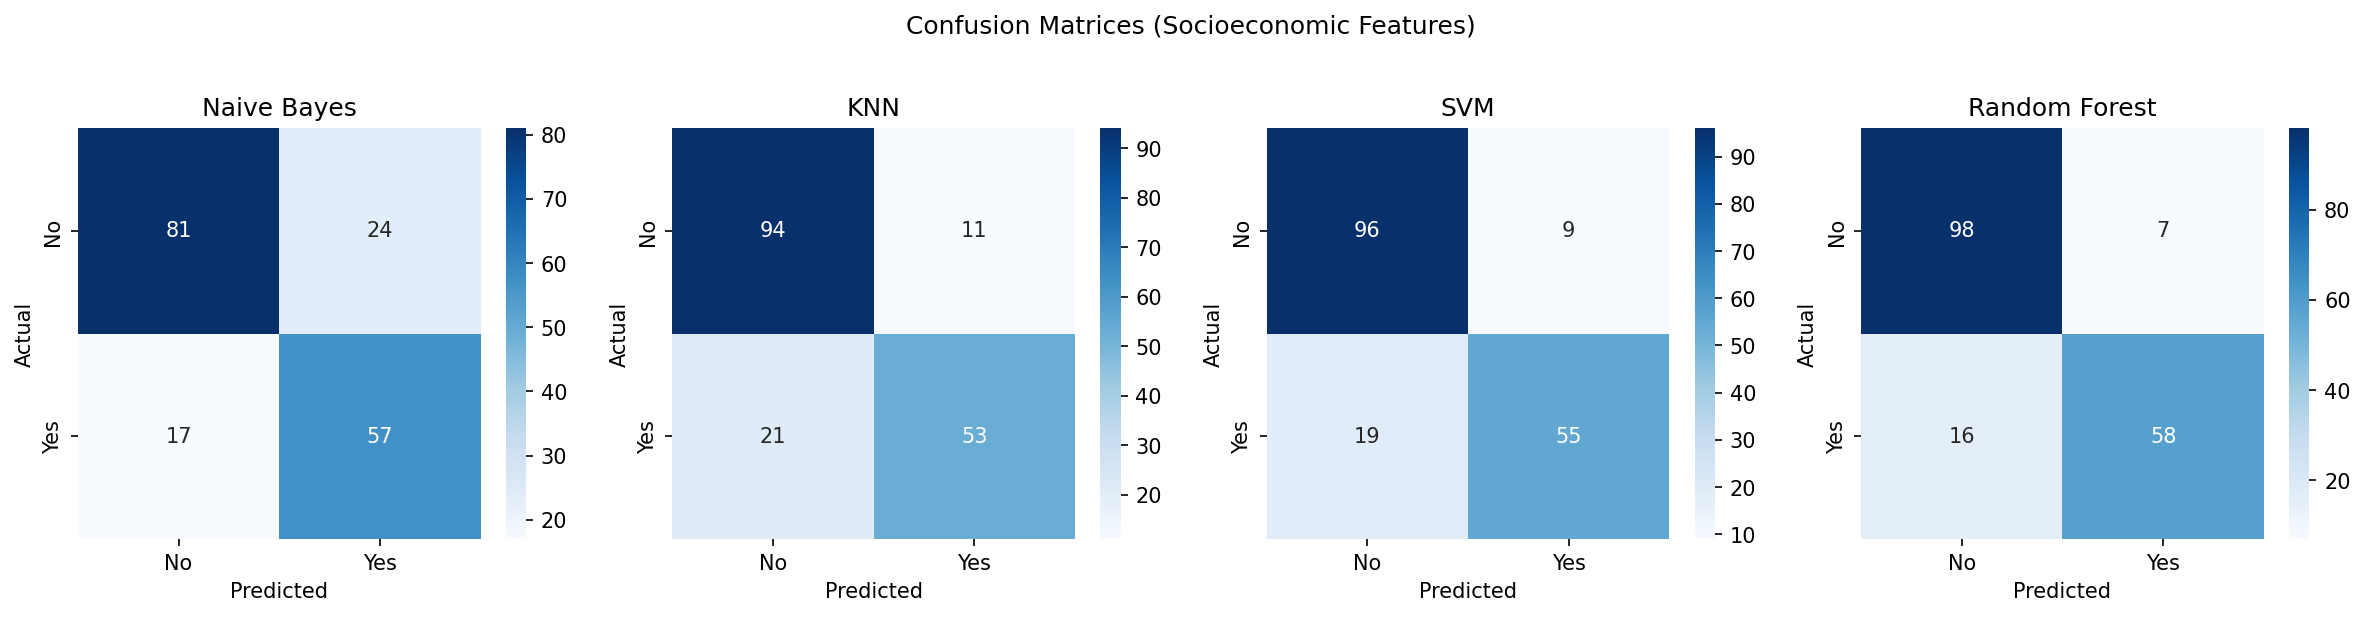
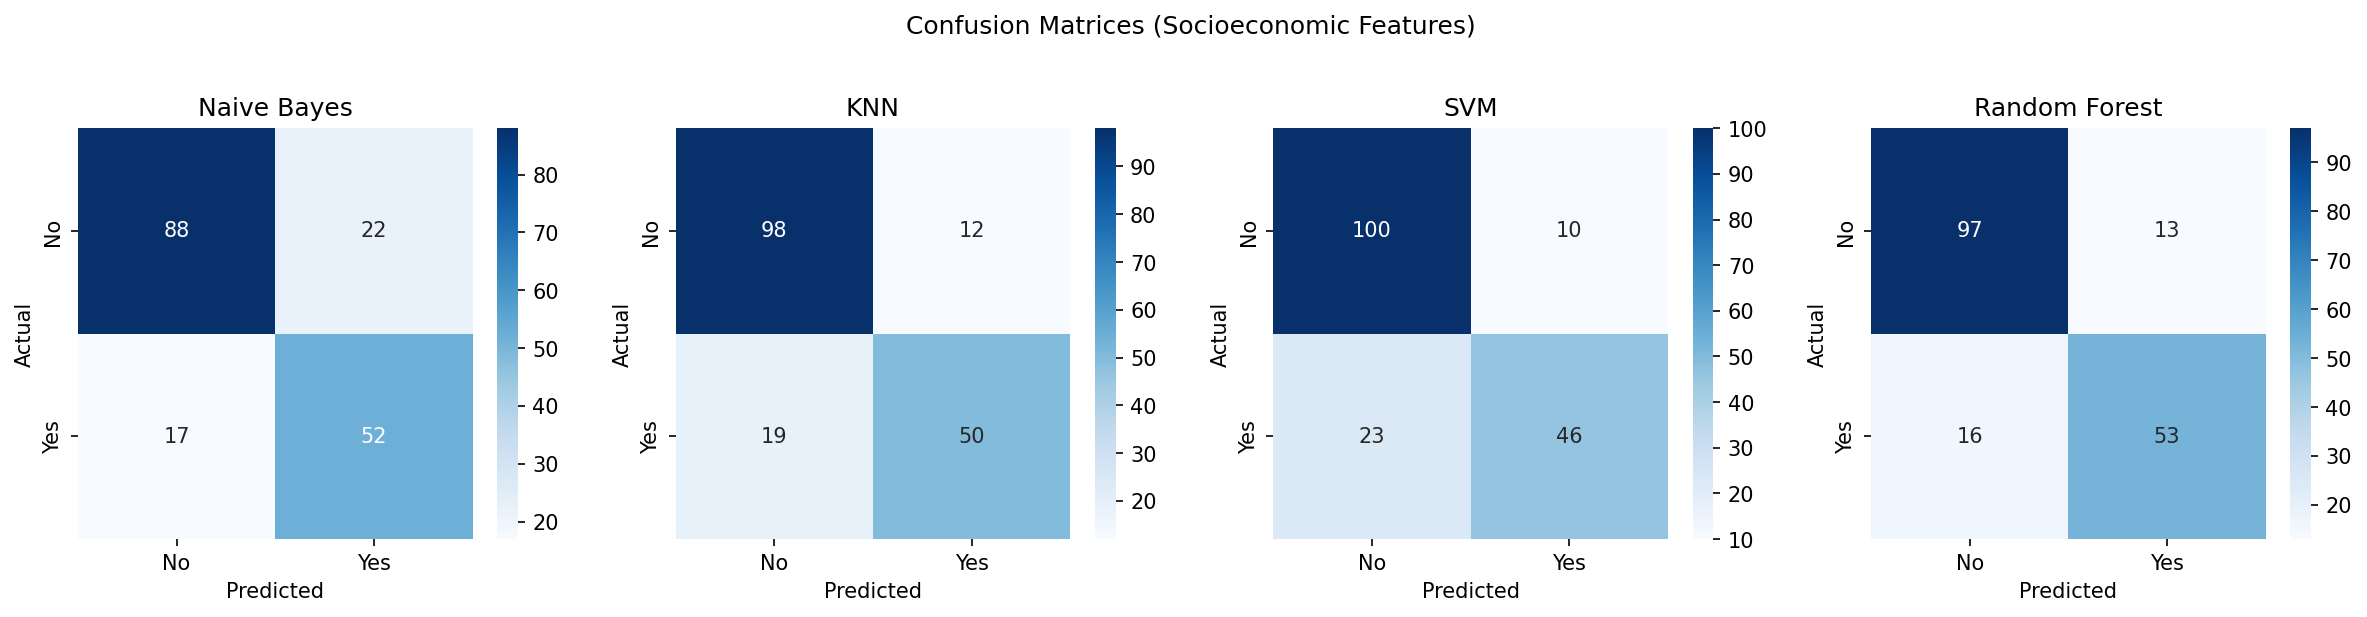
fix scaling leakage, stratified split, one-hot encoding, update results

diff --git a/feature_engineering.py b/feature_engineering.py
@@ -3,6 +3,7 @@ import pandas as pd
 import numpy as np
 from sklearn.model_selection import train_test_split, GridSearchCV
 from sklearn.preprocessing import LabelEncoder, StandardScaler
+from sklearn.pipeline import Pipeline
 from sklearn.naive_bayes import GaussianNB
 from sklearn.neighbors import KNeighborsClassifier
 from sklearn.svm import SVC
@@ -63,148 +64,134 @@ df['Embarked'] = df['Embarked'].fillna(df['Embarked'].mode()[0])
 # drop columns we dont need
 df = df.drop(['PassengerId', 'Name', 'Ticket', 'Cabin'], axis=1)
 
-# encode sex: male=1, female=0
+# encode sex: male=1, female=0 (binary — no ordinal issue)
 df['Sex'] = LabelEncoder().fit_transform(df['Sex'])
 
-# encode embarked
-df['Embarked'] = LabelEncoder().fit_transform(df['Embarked'])
+# one-hot encode Title and Embarked (nominal — no fake ordering)
+# save title survival rates before one-hot so we can use in plot later
+title_surv = df.groupby('Title')['Survived'].mean().sort_values(ascending=False)
+df = pd.get_dummies(df, columns=['Title', 'Embarked'], drop_first=False)
 
-# encode title
-title_enc = LabelEncoder()
-df['Title'] = title_enc.fit_transform(df['Title'])
-
-print("\nCleaned data:")
-print(df.head(10))
+print("\nCleaned data shape:", df.shape)
 print("\nNo more missing values:")
 print(df.isnull().sum())
 
 # --- STEP 4: setup for model comparison ---
-# comparing: demographics only vs demographics + socioeconomic features
 y = df['Survived']
+
+title_cols = [c for c in df.columns if c.startswith('Title_')]
 
 # baseline: just age and sex (pure demographics)
 X_base = df[['Age', 'Sex']]
 
-# with socioeconomic: add Pclass, Fare, and Title
-X_socio = df[['Age', 'Sex', 'Pclass', 'Fare', 'Title']]
+# with socioeconomic: add Pclass, Fare, and one-hot Title
+X_socio = df[['Age', 'Sex', 'Pclass', 'Fare'] + title_cols]
 
 # all features for reference
 X_all = df.drop(['Survived'], axis=1)
 
-# same random split for all so comparison is fair
+# stratified split so class balance is preserved in both sets
 X_base_tr, X_base_te, y_train, y_test = train_test_split(
-    X_base, y, test_size=0.2, random_state=42)
+    X_base, y, test_size=0.2, random_state=42, stratify=y)
 
 X_socio_tr, X_socio_te, _, _ = train_test_split(
-    X_socio, y, test_size=0.2, random_state=42)
+    X_socio, y, test_size=0.2, random_state=42, stratify=y)
 
 X_all_tr, X_all_te, _, _ = train_test_split(
-    X_all, y, test_size=0.2, random_state=42)
-
-# scale everything
-scaler1 = StandardScaler()
-X_base_tr_sc = scaler1.fit_transform(X_base_tr)
-X_base_te_sc = scaler1.transform(X_base_te)
-
-scaler2 = StandardScaler()
-X_socio_tr_sc = scaler2.fit_transform(X_socio_tr)
-X_socio_te_sc = scaler2.transform(X_socio_te)
-
-scaler3 = StandardScaler()
-X_all_tr_sc = scaler3.fit_transform(X_all_tr)
-X_all_te_sc = scaler3.transform(X_all_te)
+    X_all, y, test_size=0.2, random_state=42, stratify=y)
 
 # --- STEP 5: helper to train, predict and evaluate ---
+# Pipeline handles scaling inside so scaler never sees test data before fit
 def run_model(model, X_tr, X_te, y_tr, y_te):
-    model.fit(X_tr, y_tr)
-    pred = model.predict(X_te)
+    pipe = Pipeline([('scaler', StandardScaler()), ('model', model)])
+    pipe.fit(X_tr, y_tr)
+    pred = pipe.predict(X_te)
     return {
         'acc': round(accuracy_score(y_te, pred), 4),
-        'prec': round(precision_score(y_te, pred), 4),
-        'rec': round(recall_score(y_te, pred), 4),
-        'f1': round(f1_score(y_te, pred), 4),
+        'prec': round(precision_score(y_te, pred, zero_division=0), 4),
+        'rec': round(recall_score(y_te, pred, zero_division=0), 4),
+        'f1': round(f1_score(y_te, pred, zero_division=0), 4),
         'pred': pred
     }
 
 # --- STEP 6: hyperparameter tuning with GridSearchCV ---
-# tune on the socioeconomic feature set since thats our focus
+# Pipelines inside GridSearchCV so scaler refits on each fold — no leakage
 print("\nTuning hyperparameters (this takes a sec)...")
 
-# NB - not much to tune, var_smoothing is the main one
-nb_grid = GridSearchCV(GaussianNB(),
-    {'var_smoothing': [1e-9, 1e-8, 1e-7, 1e-6, 1e-5]},
+nb_grid = GridSearchCV(
+    Pipeline([('scaler', StandardScaler()), ('nb', GaussianNB())]),
+    {'nb__var_smoothing': [1e-9, 1e-8, 1e-7, 1e-6, 1e-5]},
     cv=5, scoring='f1')
-nb_grid.fit(X_socio_tr_sc, y_train)
-print(f"NB best params: {nb_grid.best_params_}")
+nb_grid.fit(X_socio_tr, y_train)
+nb_best = {k.replace('nb__', ''): v for k, v in nb_grid.best_params_.items()}
+print(f"NB best params: {nb_best}")
 
-# KNN - tune k and weights
-knn_grid = GridSearchCV(KNeighborsClassifier(),
-    {'n_neighbors': [3, 5, 7, 9, 11, 13],
-     'weights': ['uniform', 'distance']},
+knn_grid = GridSearchCV(
+    Pipeline([('scaler', StandardScaler()), ('knn', KNeighborsClassifier())]),
+    {'knn__n_neighbors': [3, 5, 7, 9, 11, 13], 'knn__weights': ['uniform', 'distance']},
     cv=5, scoring='f1')
-knn_grid.fit(X_socio_tr_sc, y_train)
-print(f"KNN best params: {knn_grid.best_params_}")
+knn_grid.fit(X_socio_tr, y_train)
+knn_best = {k.replace('knn__', ''): v for k, v in knn_grid.best_params_.items()}
+print(f"KNN best params: {knn_best}")
 
-# SVM - tune C and kernel
-svm_grid = GridSearchCV(SVC(),
-    {'C': [0.1, 1, 10],
-     'kernel': ['rbf', 'linear']},
+svm_grid = GridSearchCV(
+    Pipeline([('scaler', StandardScaler()), ('svm', SVC())]),
+    {'svm__C': [0.1, 1, 10], 'svm__kernel': ['rbf', 'linear']},
     cv=5, scoring='f1')
-svm_grid.fit(X_socio_tr_sc, y_train)
-print(f"SVM best params: {svm_grid.best_params_}")
+svm_grid.fit(X_socio_tr, y_train)
+svm_best = {k.replace('svm__', ''): v for k, v in svm_grid.best_params_.items()}
+print(f"SVM best params: {svm_best}")
 
-# RF - tune n_estimators and max_depth
-rf_grid = GridSearchCV(RandomForestClassifier(random_state=42),
-    {'n_estimators': [50, 100, 200],
-     'max_depth': [5, 10, 15, None]},
+rf_grid = GridSearchCV(
+    Pipeline([('scaler', StandardScaler()), ('rf', RandomForestClassifier(random_state=42))]),
+    {'rf__n_estimators': [50, 100, 200], 'rf__max_depth': [5, 10, 15, None]},
     cv=5, scoring='f1')
-rf_grid.fit(X_socio_tr_sc, y_train)
-print(f"RF best params: {rf_grid.best_params_}")
+rf_grid.fit(X_socio_tr, y_train)
+rf_best = {k.replace('rf__', ''): v for k, v in rf_grid.best_params_.items()}
+print(f"RF best params: {rf_best}")
 
 # --- STEP 7: run tuned models on all 3 feature sets ---
-tuned_models = {
-    'Naive Bayes': nb_grid.best_estimator_,
-    'KNN': knn_grid.best_estimator_,
-    'SVM': svm_grid.best_estimator_,
-    'Random Forest': rf_grid.best_estimator_
-}
-
-# need fresh copies for each feature set
+# fresh model instance each time so no state carries over between feature sets
 def get_tuned(name):
     if name == 'Naive Bayes':
-        return GaussianNB(**nb_grid.best_params_)
+        return GaussianNB(**nb_best)
     elif name == 'KNN':
-        return KNeighborsClassifier(**knn_grid.best_params_)
+        return KNeighborsClassifier(**knn_best)
     elif name == 'SVM':
-        return SVC(**svm_grid.best_params_)
+        return SVC(**svm_best)
     else:
-        return RandomForestClassifier(**rf_grid.best_params_, random_state=42)
+        return RandomForestClassifier(**rf_best, random_state=42)
 
+model_names = ['Naive Bayes', 'KNN', 'SVM', 'Random Forest']
 results = []
 
-for name in tuned_models:
-    base = run_model(get_tuned(name), X_base_tr_sc, X_base_te_sc, y_train, y_test)
-    socio = run_model(get_tuned(name), X_socio_tr_sc, X_socio_te_sc, y_train, y_test)
-    full = run_model(get_tuned(name), X_all_tr_sc, X_all_te_sc, y_train, y_test)
+for name in model_names:
+    base = run_model(get_tuned(name), X_base_tr, X_base_te, y_train, y_test)
+    socio = run_model(get_tuned(name), X_socio_tr, X_socio_te, y_train, y_test)
+    full = run_model(get_tuned(name), X_all_tr, X_all_te, y_train, y_test)
 
     results.append({
         'Model': name,
-        'Base Acc': base['acc'],
-        'Socio Acc': socio['acc'],
-        'All Acc': full['acc'],
-        'Base F1': base['f1'],
-        'Socio F1': socio['f1'],
-        'All F1': full['f1'],
+        'Base Acc': base['acc'], 'Socio Acc': socio['acc'], 'All Acc': full['acc'],
+        'Base F1': base['f1'], 'Socio F1': socio['f1'], 'All F1': full['f1'],
+        'Socio Prec': socio['prec'], 'Socio Rec': socio['rec'],
         'socio_pred': socio['pred']
     })
 
+# RF overfitting check — compare train vs test accuracy
+rf_pipe_check = Pipeline([('scaler', StandardScaler()), ('model', get_tuned('Random Forest'))])
+rf_pipe_check.fit(X_socio_tr, y_train)
+rf_train_acc = accuracy_score(y_train, rf_pipe_check.predict(X_socio_tr))
+rf_test_acc = [r for r in results if r['Model'] == 'Random Forest'][0]['Socio Acc']
+print(f"\nRF train accuracy: {rf_train_acc:.4f} | test accuracy: {rf_test_acc:.4f}")
+
 # --- STEP 8: show results ---
-results_df = pd.DataFrame(results).drop(columns=['socio_pred'])
-print("\n" + "="*70)
+disp_cols = ['Model', 'Base Acc', 'Socio Acc', 'All Acc', 'Base F1', 'Socio F1', 'All F1', 'Socio Prec', 'Socio Rec']
+results_df = pd.DataFrame(results)[disp_cols]
+print("\n" + "="*80)
 print("TUNED MODEL COMPARISON")
-print("Base = Age + Sex | Socio = Age + Sex + Pclass + Fare + Title")
-print("All = all available features")
-print("="*70)
+print("Base = Age+Sex | Socio = Age+Sex+Pclass+Fare+Title | All = all features")
+print("="*80)
 print(results_df.to_string(index=False))
 
 print("\n--- Accuracy gain: Base -> Socioeconomic ---")
@@ -237,17 +224,8 @@ for r in results:
 import matplotlib.pyplot as plt
 import seaborn as sns
 
-# reload original data for the title survival chart
-raw = pd.read_csv(train_path)
-raw['Title'] = raw['Name'].str.split(',').str[1].str.split('.').str[0].str.strip()
-raw['Title'] = raw['Title'].replace(['Mlle', 'Ms'], 'Miss')
-raw['Title'] = raw['Title'].replace('Mme', 'Mrs')
-raw['Title'] = raw['Title'].replace(['Dr', 'Rev', 'Col', 'Major', 'Capt',
-    'Don', 'Sir', 'Lady', 'the Countess', 'Jonkheer'], 'Rare')
-
-# plot 1: survival rate by title
+# plot 1: survival rate by title (use title_surv saved before one-hot encoding)
 fig, ax = plt.subplots(figsize=(8, 5))
-title_surv = raw.groupby('Title')['Survived'].mean().sort_values(ascending=False)
 bars = ax.bar(title_surv.index, title_surv.values, color=['#e74c3c', '#2ecc71', '#3498db', '#f39c12', '#9b59b6'])
 ax.set_ylabel('Survival Rate')
 ax.set_title('Survival Rate by Title')

diff --git a/README.md b/README.md
@@ -61,23 +61,25 @@ CS7331-Titanic-Project/
 - Extracts titles (Mr, Mrs, Miss, Master, etc.) from the Name column and groups rare ones into "Rare"
 - Fills missing Age with the median age for each title group instead of just the overall median
 - Fills missing Embarked with the most common value, drops Cabin since ~80% is missing
-- Encodes categorical features and scales everything with StandardScaler
+- One-hot encodes Title and Embarked (nominal categoricals); label-encodes Sex (binary)
+- Scaling is done inside a `Pipeline` per feature set so no data leaks into cross-validation
+- Stratified 80/20 train/test split to preserve class balance (38% survivors)
 - Compares 3 feature sets:
   - **Base**: just Age + Sex
   - **Socioeconomic**: Age + Sex + Pclass + Fare + Title
   - **All**: every available feature
 - Tunes each model (NB, KNN, SVM, RF) with GridSearchCV using 5-fold CV on F1
-- Outputs accuracy, F1, confusion matrices, classification reports, and 4 plots
+- Outputs accuracy, F1, precision, recall, confusion matrices, classification reports, and 4 plots
 
 ### Results
 
 | Model | Base Acc | Socio Acc | Gain |
 |-------|:---:|:---:|:---:|
-| Naive Bayes | 78.2% | 77.1% | −1.1% |
-| KNN | 76.5% | 82.1% | +5.6% |
-| SVM | 79.3% | 84.4% | +5.0% |
-| Random Forest | 77.7% | 87.2% | +9.5% |
+| Naive Bayes | 77.7% | 78.2% | +0.6% |
+| KNN | 76.0% | 82.7% | +6.7% |
+| SVM | 77.1% | 81.6% | +4.5% |
+| Random Forest | 73.7% | 83.8% | +10.1% |
 
-Random Forest did the best overall — 87.2% accuracy and 0.83 F1 with socioeconomic features. Adding Pclass, Fare, and Title on top of Age/Sex gave a 5–10% boost for most models.
+Random Forest did the best overall — 83.8% accuracy and 0.785 F1 with socioeconomic features. Adding Pclass, Fare, and Title on top of Age/Sex gave a 5–10% boost for most models.
 
-Note: Naive Bayes saw a slight drop with the socioeconomic set, likely because the high correlation between Pclass and Fare violates its feature independence assumption.
+Note: Naive Bayes barely moved (+0.6%) — its feature independence assumption means adding correlated features like Pclass and Fare provides little benefit.
